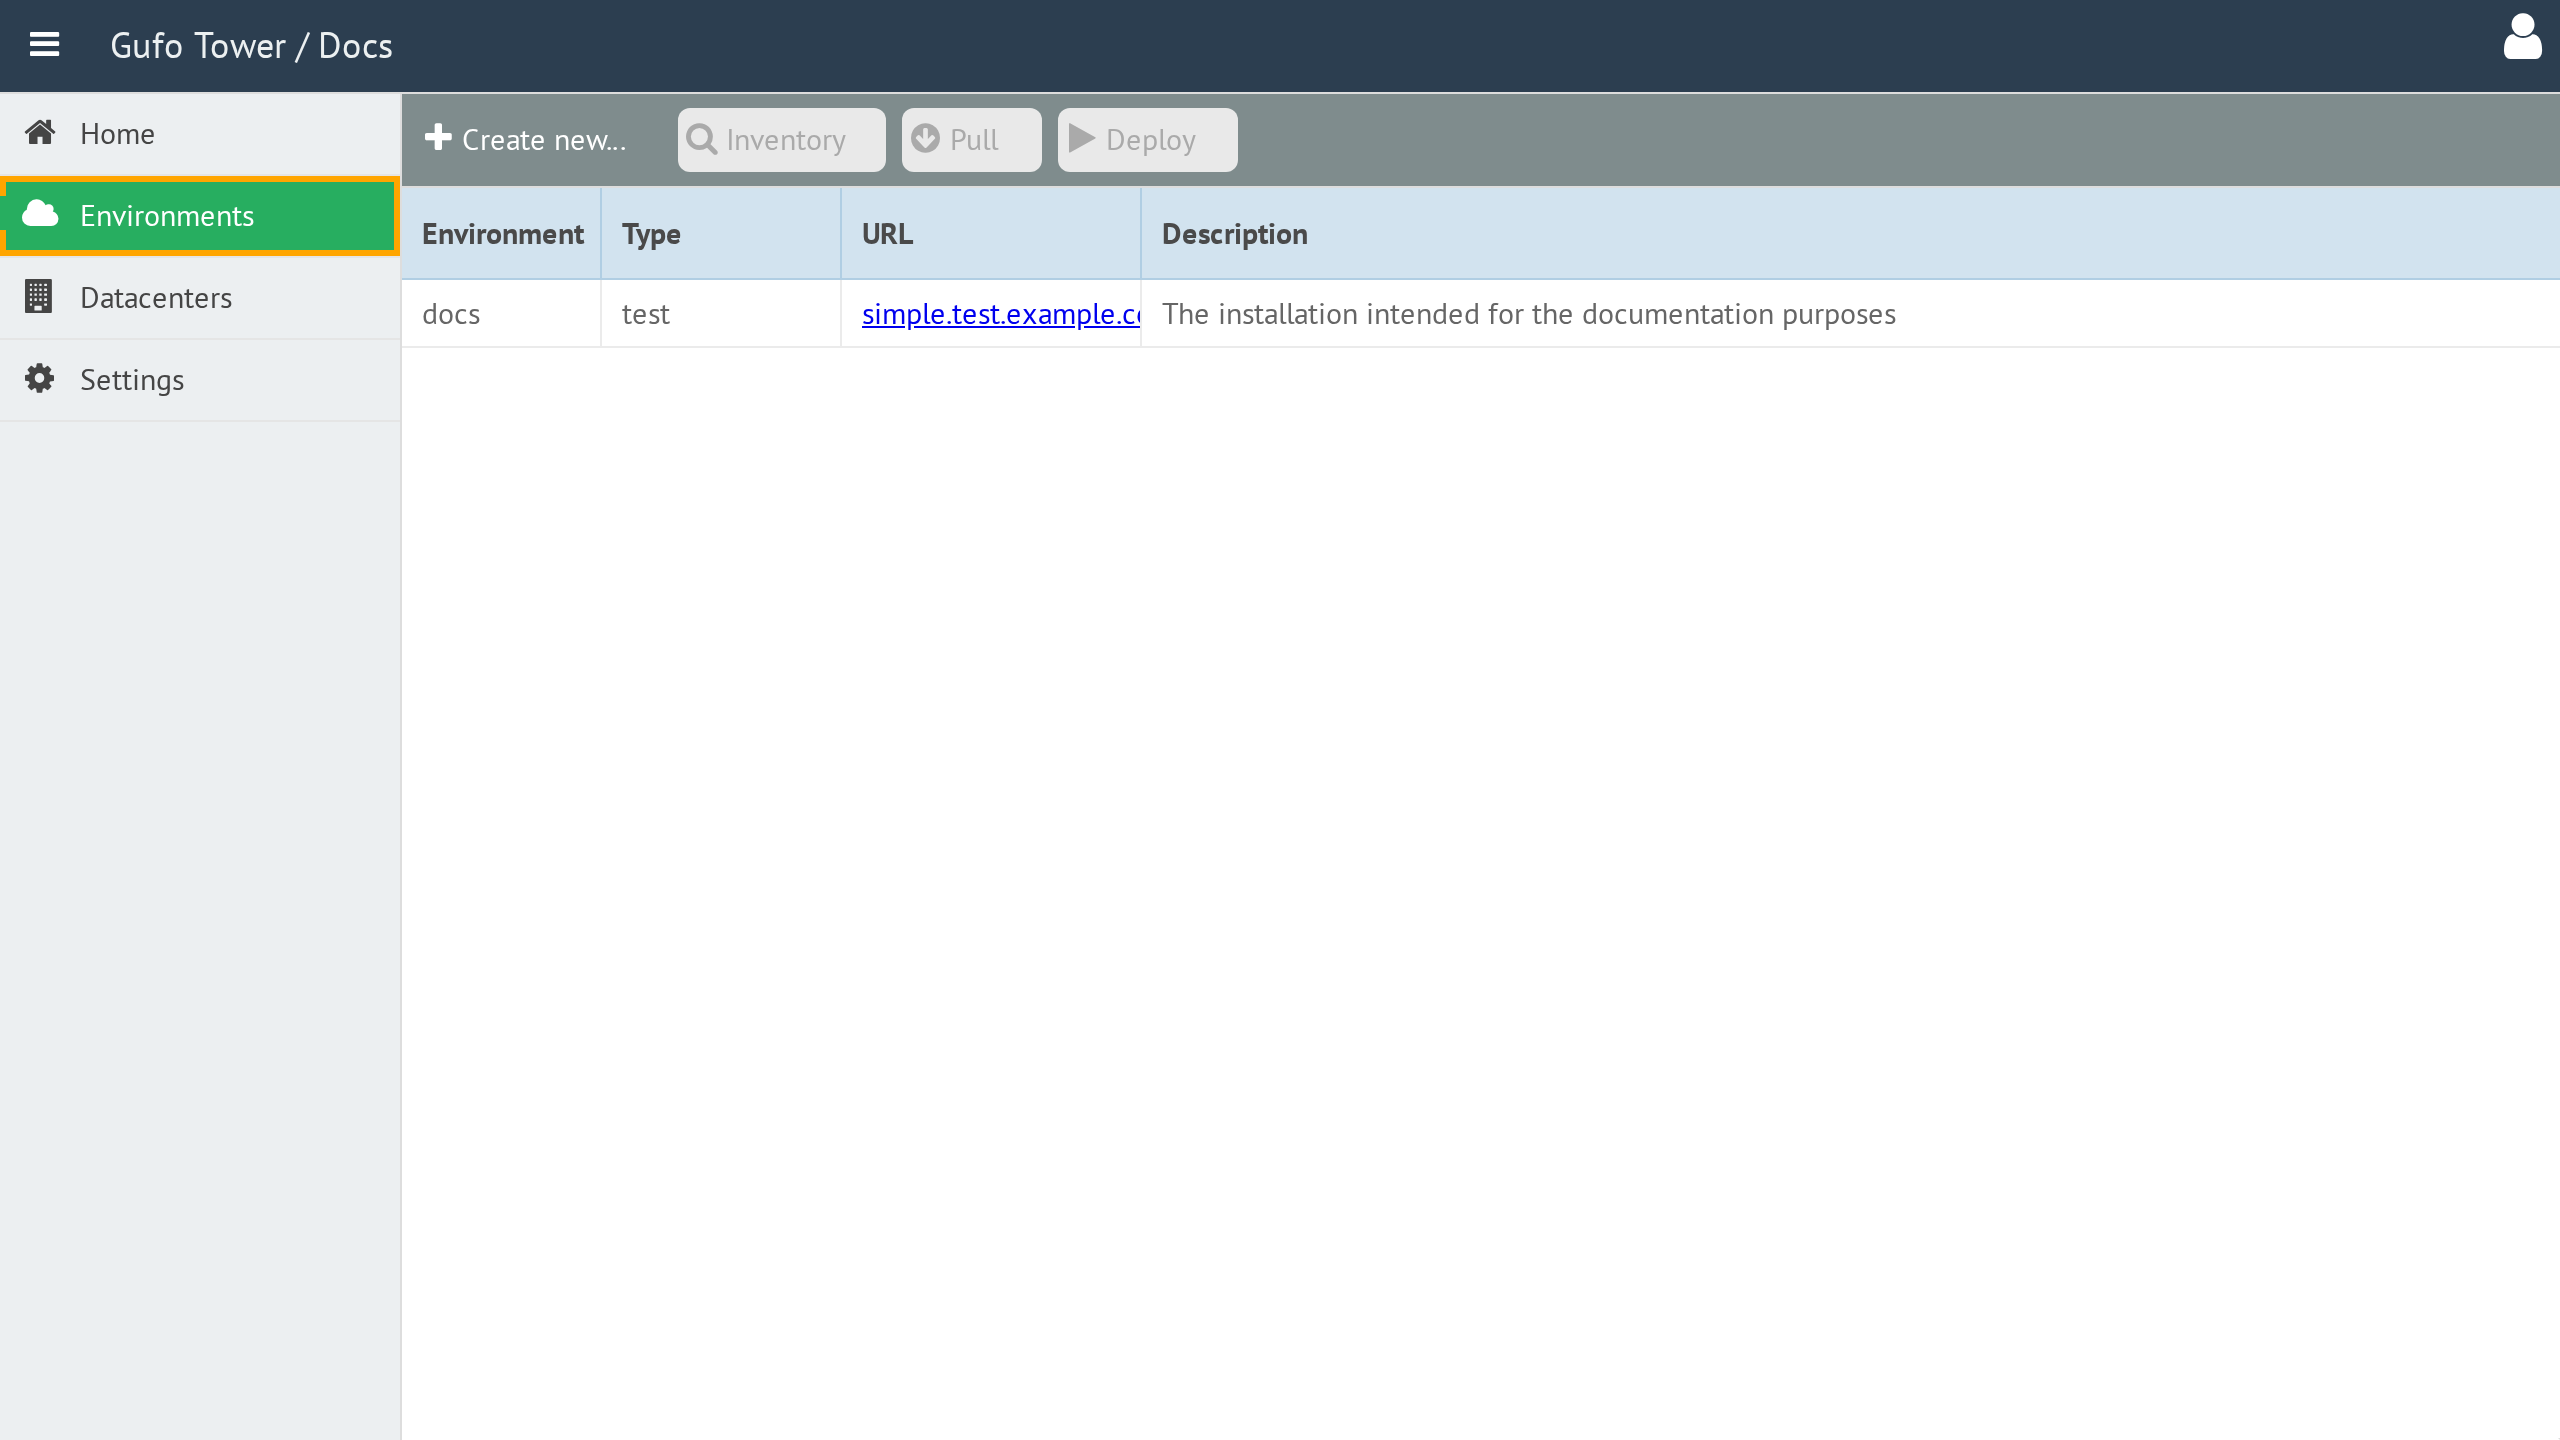
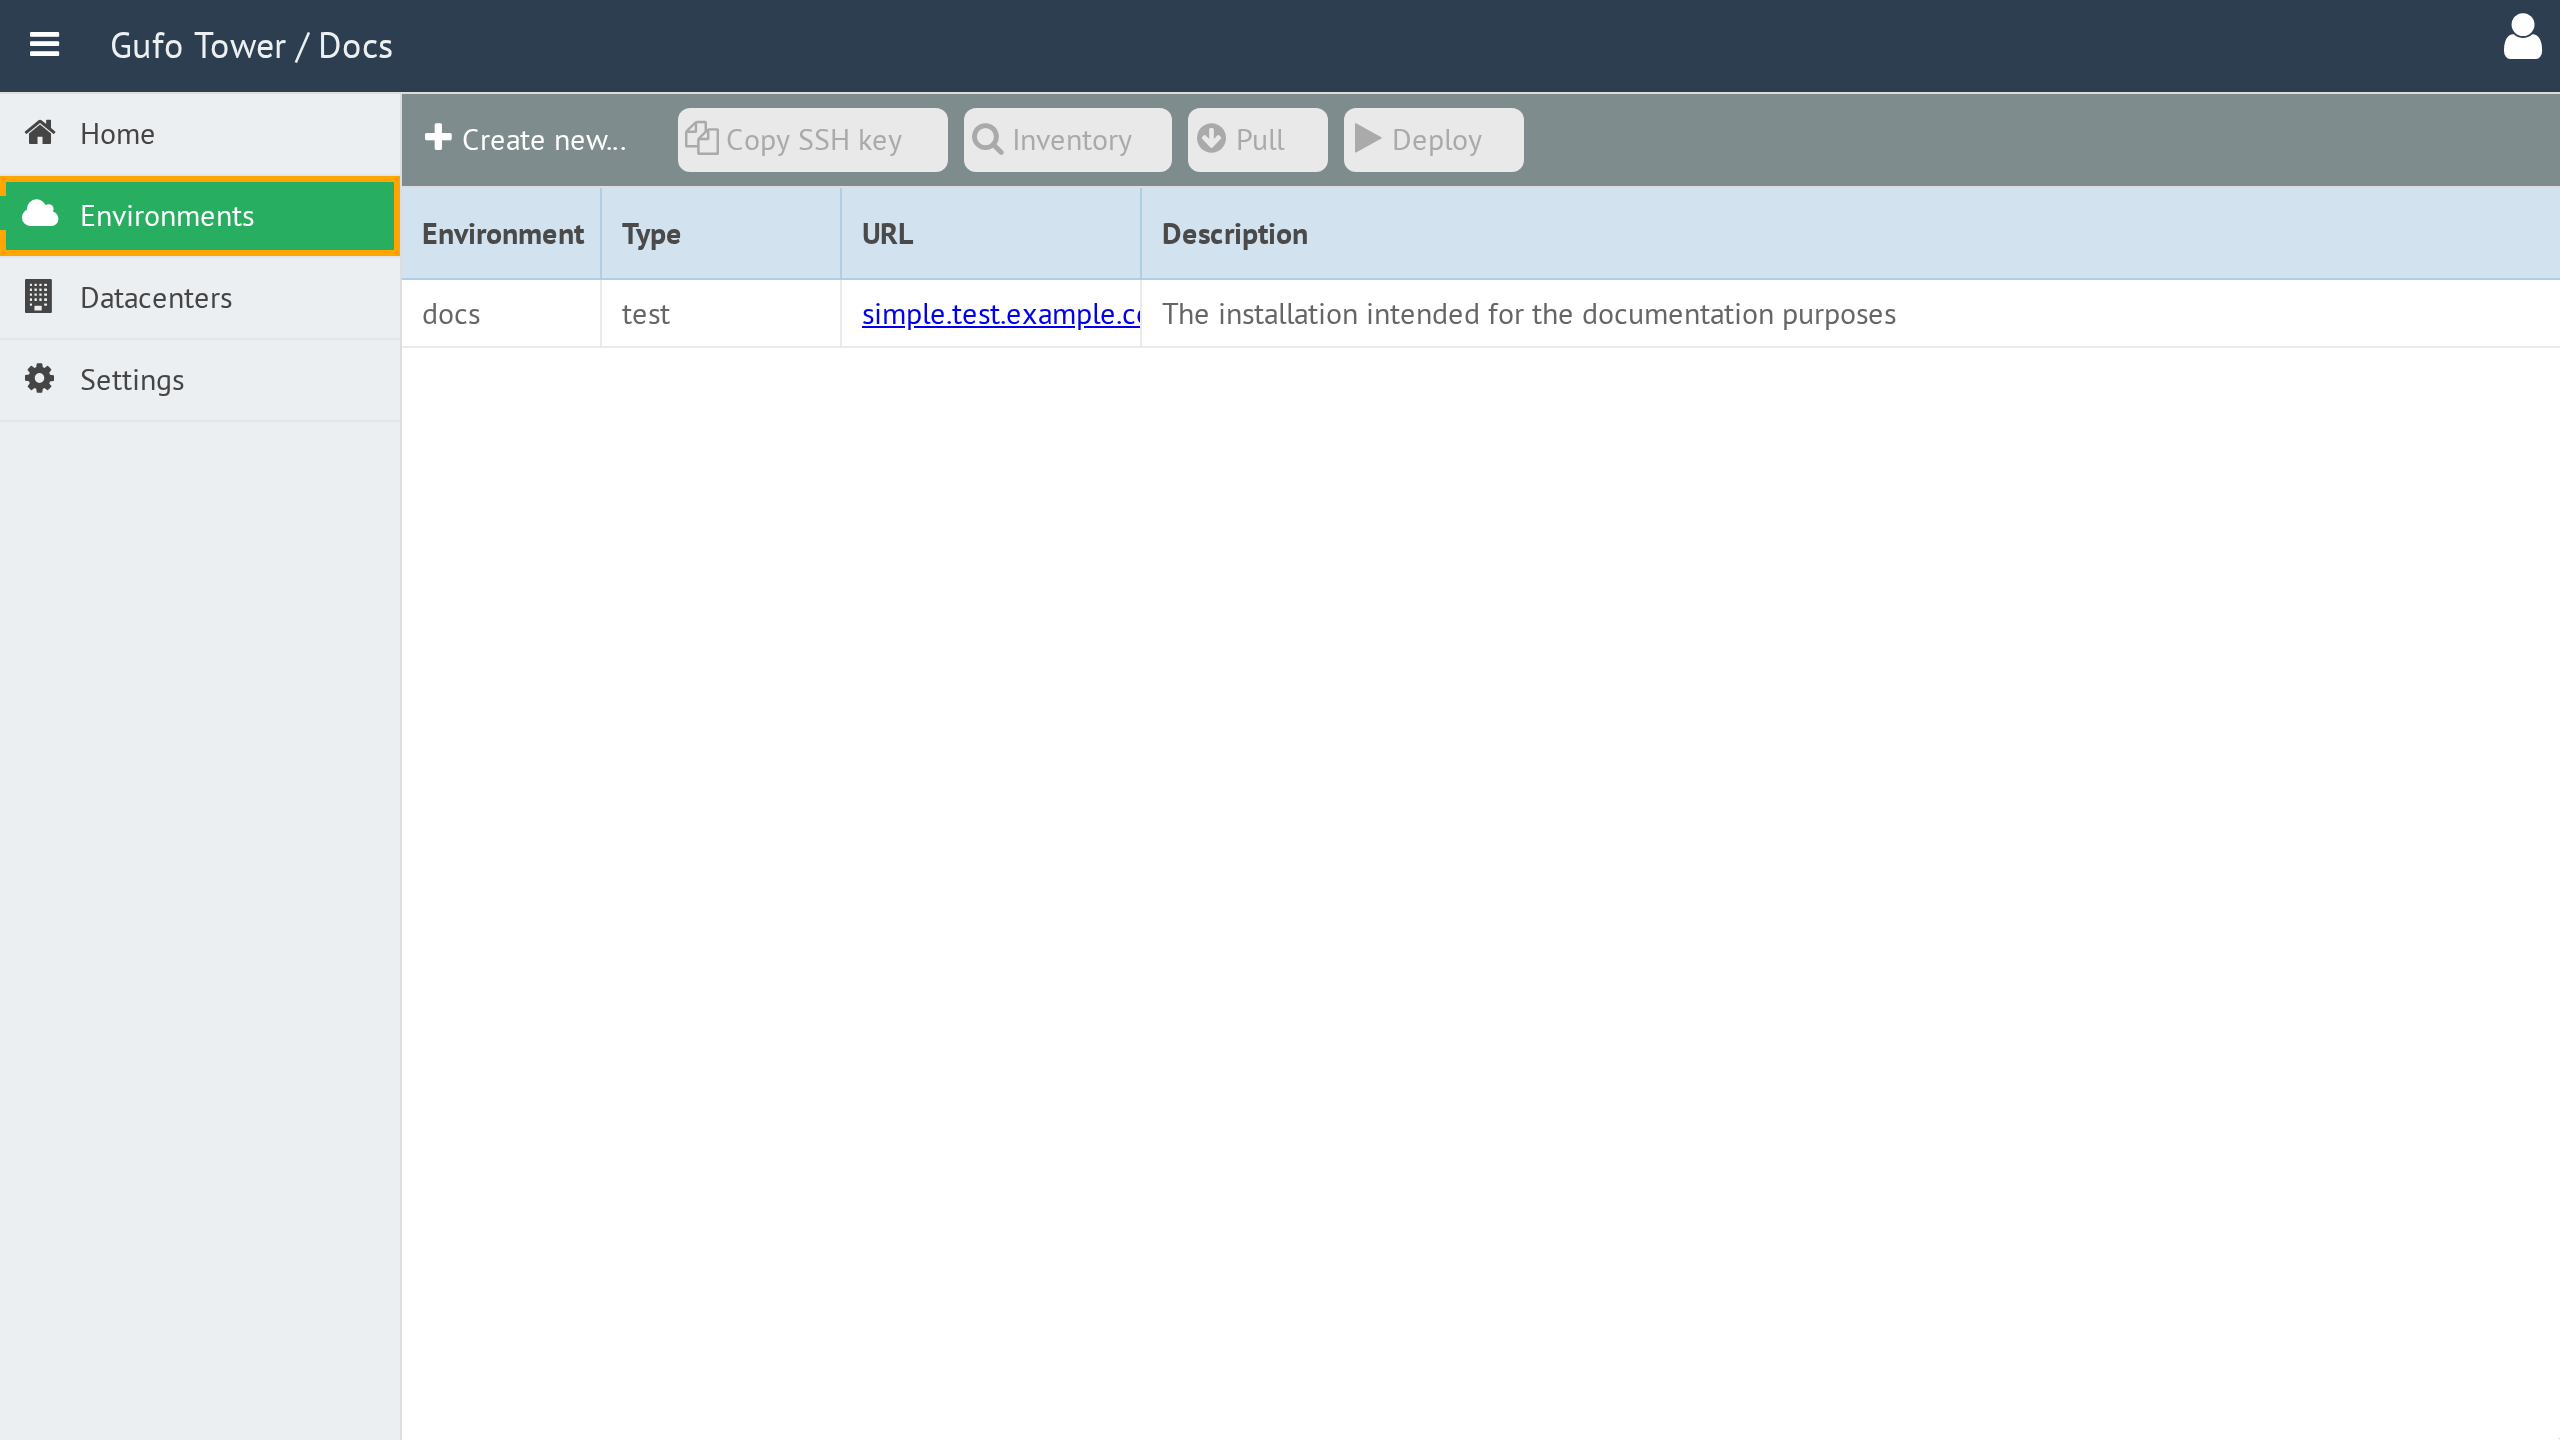
Move Copy SSH Key button to environment list

Changed region(s): [[0.25, 0.0625, 0.5938, 0.125]]

diff --git a/src/ui/environment/list/logic.js b/src/ui/environment/list/logic.js
@@ -8,6 +8,7 @@ import { API } from "../../rpc.js";
 import { Tower } from "../../lib.js";
 import { Route, router } from "../../route.js";
 import { current_env } from "../../state.js";
+import { copyToClipboard } from "../../clipboard.js";
 
 export class EnvironmentListLogic {
     PULL_CHECK_INTERVAL = 1000;
@@ -29,6 +30,7 @@ export class EnvironmentListLogic {
     on_select = () => {
         const data = $$("environment_list").getSelectedItem();
         current_env.setState(data);
+        $$("environment_copy_ssh_button").enable();
         $$("environment_inventory_button").enable();
         $$("environment_pull_button").enable();
         $$("environment_deploy_button").enable();
@@ -84,6 +86,21 @@ export class EnvironmentListLogic {
             $$("environment_list").hideProgress();
             Tower.msg.failed("Cannot pull repo");
         }
+    };
+
+    on_copy_key = async () => {
+        let key;
+        try {
+            key = await API.environment.get_ssh_public_key(current_env.state.id);
+        } catch {
+            Tower.msg.failed("Failed to get key");
+            return;
+        }
+        if (key === "") {
+            Tower.msg.failed("No key configured");
+            return;
+        }
+        await copyToClipboard(key);
     };
 };
 

diff --git a/src/ui/environment/form/logic.js b/src/ui/environment/form/logic.js
@@ -8,7 +8,6 @@ import { API } from "../../rpc.js";
 import { Tower } from "../../lib.js";
 import { Route, router } from "../../route.js";
 import { current_env } from "../../state.js";
-import { copyToClipboard } from "../../clipboard.js";
 
 export class EnvironmentFormLogic {
     on_route_new = () => {
@@ -96,21 +95,6 @@ export class EnvironmentFormLogic {
             this.to_list();
         }
     };
-
-    on_copy_key = async () => {
-        let key;
-        try {
-            key = await API.environment.get_ssh_public_key(current_env.state.id);
-        } catch {
-            Tower.msg.failed("Failed to get key");
-            return;
-        }
-        if (key === "") {
-            Tower.msg.failed("No key configured");
-            return;
-        }
-        await copyToClipboard(key);
-    }
 };
 
 export const environment_form_logic = new EnvironmentFormLogic();

diff --git a/src/ui/environment/list/ui.js b/src/ui/environment/list/ui.js
@@ -32,6 +32,16 @@ export const environment_list = {
                 },
                 {
                     view: "button",
+                    id: "environment_copy_ssh_button",
+                    type: "icon",
+                    icon: "copy",
+                    label: "Copy SSH key",
+                    autowidth: true,
+                    disabled: true,
+                    click: () => { environment_list_logic.on_copy_key(); }
+                },
+                {
+                    view: "button",
                     id: "environment_inventory_button",
                     type: "icon",
                     icon: "search",

diff --git a/src/ui/environment/form/ui.js b/src/ui/environment/form/ui.js
@@ -38,14 +38,6 @@ export const environment_form = {
                     click: environment_form_logic.on_delete
                 },
                 {
-                    view: "button",
-                    type: "icon",
-                    icon: "copy",
-                    label: "Copy SSH key",
-                    autowidth: true,
-                    click: () => { environment_form_logic.on_copy_key(); }
-                },
-                {
                     view: "spacer"
                 },
                 {

diff --git a/docs/user-guide/environment/list.md b/docs/user-guide/environment/list.md
@@ -28,6 +28,7 @@ The toolbar contains the following buttons:
 | Button | Description |
 | --- | --- |
 | **Create New** | Creates a new Environment. |
+| **Copy SSH Key** | Copies the public SSH key for the Environment to the clipboard. The copied public key can be added to the `~/.ssh/authorized_keys` file on NOC nodes to allow Gufo Tower to access the nodes during deployment. |
 | **Inventory** | Displays the Ansible inventory file for the selected Environment. Available only when an Environment is selected. See [Show Inventory](show-inventory.md) for details. |
 | **Pull** | Pulls the playbooks for the selected Environment. Available only when an Environment is selected. See [Pull](pull.md) for details. |
 | **Deploy** | Runs the deployment for the selected Environment. Available only when an Environment is selected. See [Deploy](deploy.md) for details. |

diff --git a/docs/user-guide/environment/form.md b/docs/user-guide/environment/form.md
@@ -72,4 +72,3 @@ The toolbar provides actions for managing the current Environment.
 | **Back** | Return to the [Environment List](list.md). |
 | **Save** | Save changes to the current Environment. |
 | **Delete** | Delete the current Environment. |
-| **Copy SSH Key** | Copies the public SSH key for the Environment to the clipboard. The copied public key can be added to the `~/.ssh/authorized_keys` file on NOC nodes to allow Gufo Tower to access the nodes during deployment. |
